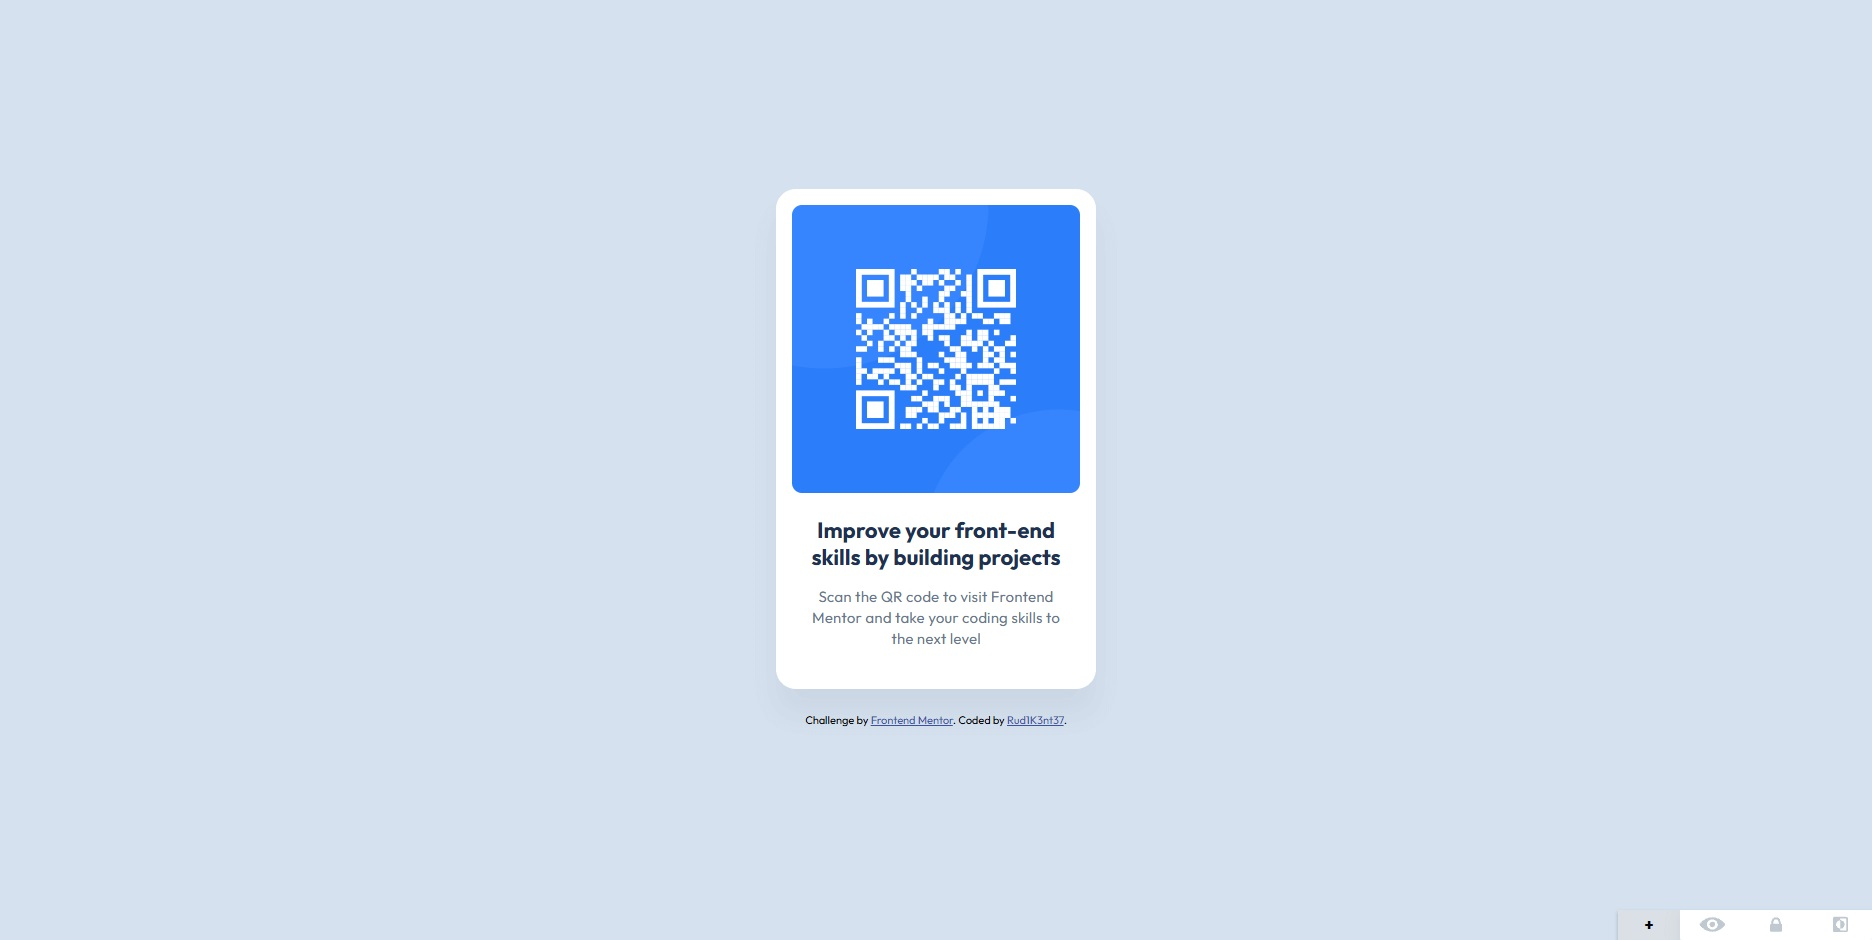
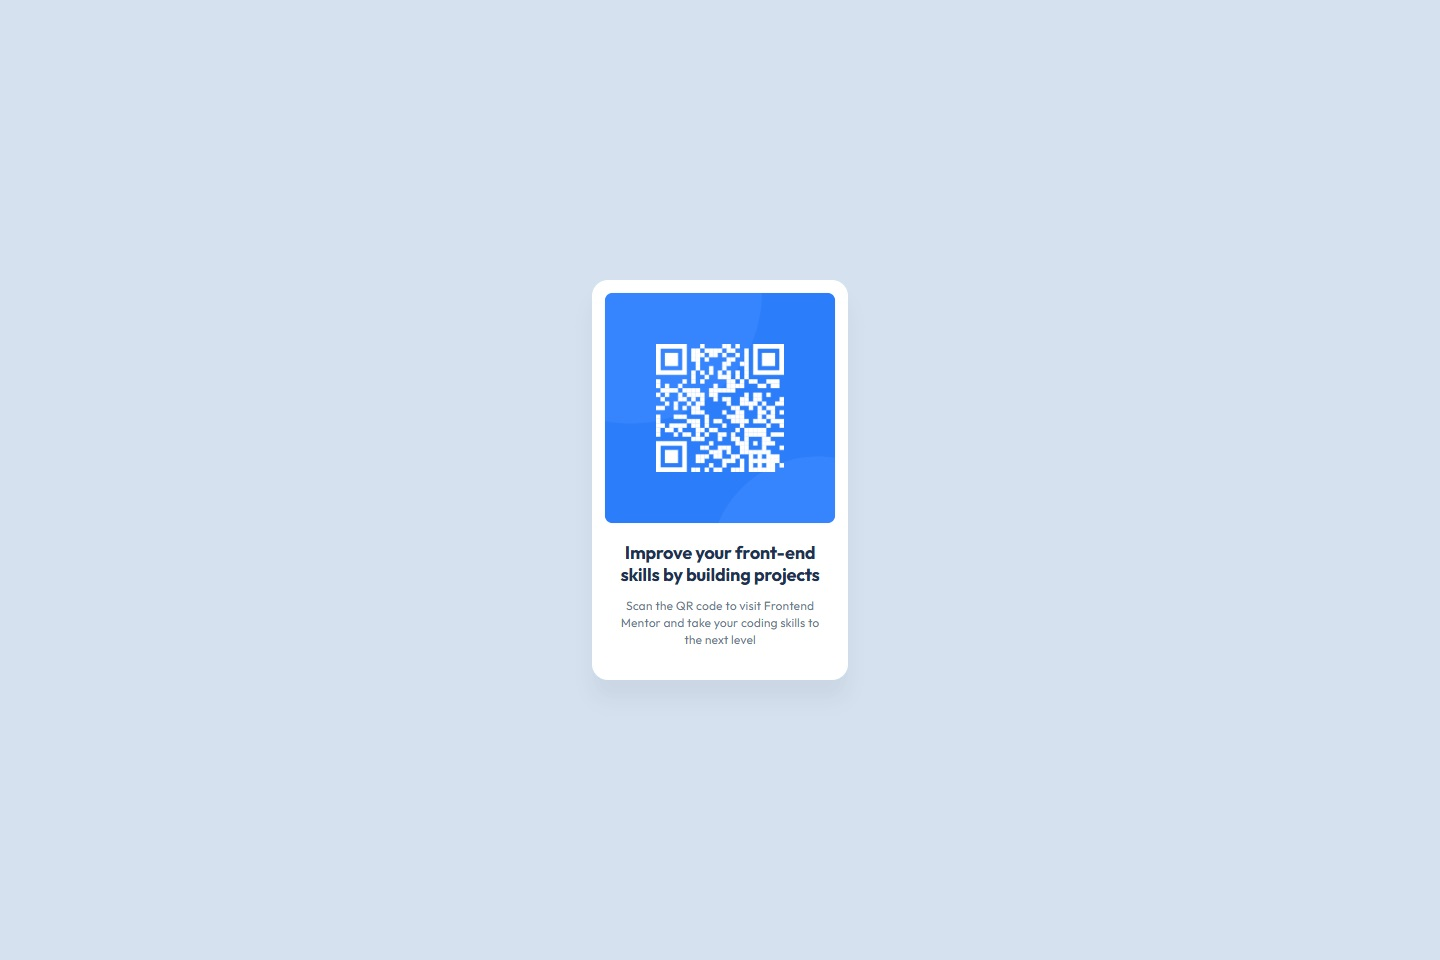
feat: добавил адаптив и CSS-переменные

Changed region(s): [[0.4062, 0.1851, 0.5938, 0.7713], [0.875, 0.9564, 1.0, 1.0]]

diff --git a/styles/styles.css b/styles/styles.css
@@ -6,17 +6,21 @@
   padding: 0;
 }
 
+html {
+  font-size: 16px;
+}
+
 body {
-  font-family: "Outfit", sans-serif;
-  background-color: #d5e1ef;
-  color: #000;
+  font-family: var(--font-main);
+  background-color: var(--color-bg);
+  color: var(--color-text);
+}
+
+main {
   display: flex;
-  flex-direction: column;
   justify-content: center;
   align-items: center;
-  inline-size: 100%;
-  min-block-size: 100vh;
-  gap: 24px;
+  min-height: 100vh;
 }
 
 .container {
@@ -24,11 +28,11 @@ body {
   flex-direction: column;
   inline-size: 100%;
   max-inline-size: 320px;
-  background-color: #fff;
+  background-color: var(--color-card);
   box-shadow: 0 25px 25px 0 rgba(0, 0, 0, 0.0477);
-  border-radius: 20px;
-  gap: 24px;
-  padding: 16px 16px 40px;
+  border-radius: var(--border-radius);
+  gap: var(--gap-large);
+  padding: 1rem 1rem var(--padding-block);
 }
 
 .qr-code {
@@ -39,7 +43,7 @@ body {
   display: block;
   inline-size: 100%;
   block-size: auto;
-  border-radius: 10px;
+  border-radius: var(--radius-small);
   object-fit: cover;
   object-position: center;
 }
@@ -47,21 +51,23 @@ body {
 .qr-code-description {
   display: flex;
   flex-direction: column;
-  gap: 16px;
-  padding: 0 16px;
+  gap: var(--gap-medium);
+  padding: 0 1rem;
 }
 
 .qr-code-title {
-  color: #1F314F;
-  font-size: 1.375rem;
+  color: var(--color-title);
+  /* font-size: 1.375rem; */
+  font-size: clamp(1.25rem, 2vw, 1.375rem);
   font-weight: 700;
   line-height: 1.2;
   text-align: center;
 }
 
 .qr-code-text {
-  color: #68778D;
-  font-size: 0.9375rem;
+  color: var(--color-subtitle);
+  /* font-size: 0.9375rem; */
+  font-size: clamp(0.8125rem, 2vw, 0.9375rem);
   font-weight: 400;
   line-height: 1.4;
   letter-spacing: 0.2px;
@@ -69,13 +75,14 @@ body {
 }
 
 .attribution {
-  font-size: 11px;
+  display: none;
+  font-size: 0.6875rem;
   text-align: center;
 }
 .attribution a {
-  color: hsl(228, 45%, 44%);
+  color: var(--link-color);
 }
 
 .attribution a:hover {
-  color: hsl(228, 70%, 60%);
+  color: var(--link-hover-color);
 }

diff --git a/index.html b/index.html
@@ -5,22 +5,26 @@
     <meta name="viewport" content="width=device-width, initial-scale=1.0">
     <link rel="icon" type="image/png" sizes="32x32" href="./images/favicon-32x32.png">
     <link rel="stylesheet" href="./fonts/fonts.css">
-    <link rel="stylesheet" href="./styles.css">
+    <link rel="stylesheet" href="./styles/variables.css">
+    <link rel="stylesheet" href="./styles/styles.css">
     <title>QR code component</title>
   </head>
   <body>
-    <article class="container">
-      <div class="qr-code">
-        <img class="qr-code-image" src="./images/image-qr-code.png" width="288" height="288" alt="QR code to visit Frontend Mentor website">
-      </div>
-      <div class="qr-code-description">
-        <p class="qr-code-title">Improve your front-end skills by building projects</p>
-        <p class="qr-code-text">Scan the QR code to visit Frontend Mentor and take your coding skills to the next level</p>
-      </div>
-    </article>
-    <div class="attribution">
+    <main role="main">
+      <article class="container">
+        <div class="qr-code">
+          <img class="qr-code-image" src="./images/image-qr-code.png" width="288" height="288" alt="Frontend Mentor QR code">
+        </div>
+        <div class="qr-code-description">
+          <h1 class="qr-code-title">Improve your front-end skills by building projects</h1>
+          <p class="qr-code-text">Scan the QR code to visit Frontend Mentor and take your coding skills to the next level</p>
+        </div>
+      </article>
+    </main>
+    
+    <footer class="attribution">
       Challenge by <a href="https://www.frontendmentor.io?ref=challenge" rel="noopener noreferrer" target="_blank">Frontend Mentor</a>. 
       Coded by <a href="#">Rud1K3nt37</a>.
-    </div>
+    </footer>
   </body>
 </html>

diff --git a/styles/variables.css b/styles/variables.css
@@ -1,0 +1,19 @@
+:root {
+  --color-bg: #d5e1ef;
+  --color-text: #000;
+  --color-card: #fff;
+  --color-title: #1f314f;
+  --color-subtitle: #68778d;
+
+  --border-radius: 20px;
+  --radius-small: 10px;
+  --gap-large: 1.5rem;
+  --gap-medium: 1rem;
+  --padding-block: 2.5rem;
+
+  --font-main: 'Outfit', sans-serif;
+
+  /* Цвета ссылок */
+  --link-color: hsl(228, 45%, 44%);
+  --link-hover-color: hsl(228, 70%, 60%);
+}
